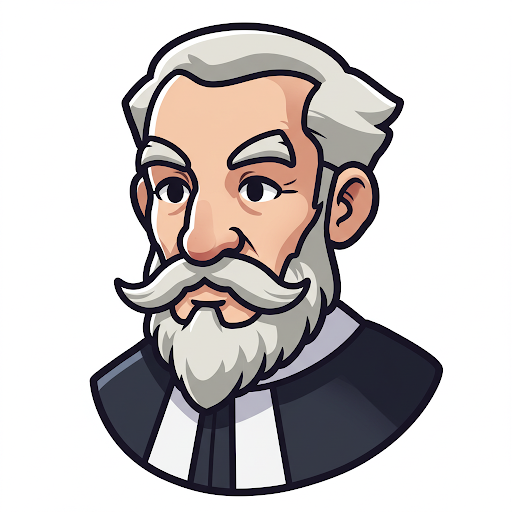
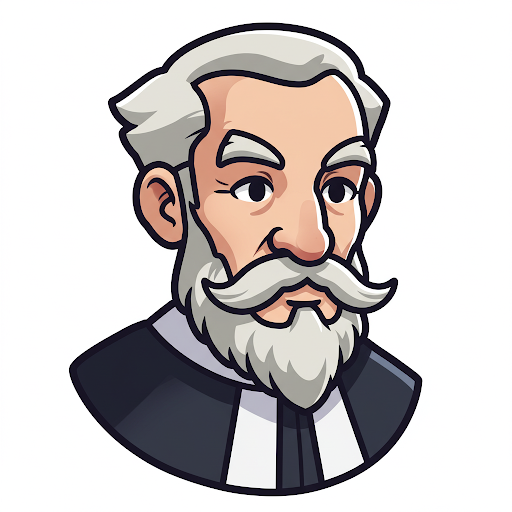
stop after game over

diff --git a/src/context/GameContext.tsx b/src/context/GameContext.tsx
@@ -76,6 +76,14 @@ export const GameProvider: React.FC<GameProviderProps> = ({
 
 
     const runNextTurnAction = useCallback(async () => {
+        if (gameState?.phase === 'GameOver') {
+            console.log("[Context] Game is over, skipping next turn action trigger.");
+            if (isAutoRunning) {
+                setIsAutoRunning(false);
+            }
+            return;
+        }
+
         if (isLoadingNextTurn) {
              console.log("[Context] Next turn already loading, skipping.");
              return;
@@ -103,7 +111,7 @@ export const GameProvider: React.FC<GameProviderProps> = ({
              // Let GameClient handle setting it false when new state arrives
              // setIsLoadingNextTurn(false);
         }
-    }, [isLoadingNextTurn, boundRunGameTurnAction, stopCurrentAudio, currentlyPlayingMessageId]);
+    }, [gameState?.phase, isAutoRunning, isLoadingNextTurn, boundRunGameTurnAction, stopCurrentAudio, currentlyPlayingMessageId]);
 
     // Update context state if initialGameState prop changes (due to server revalidation)
      useEffect(() => {
